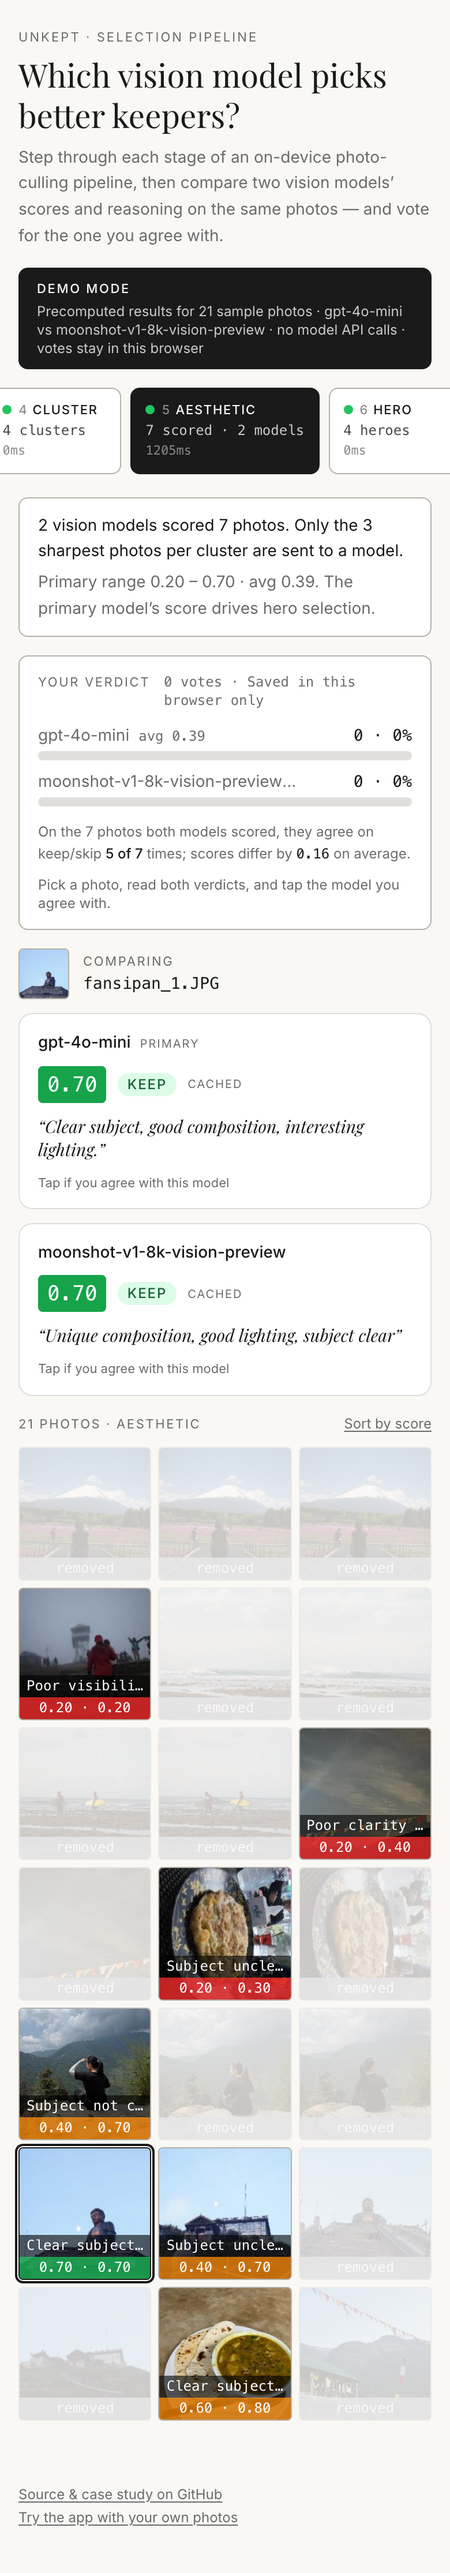
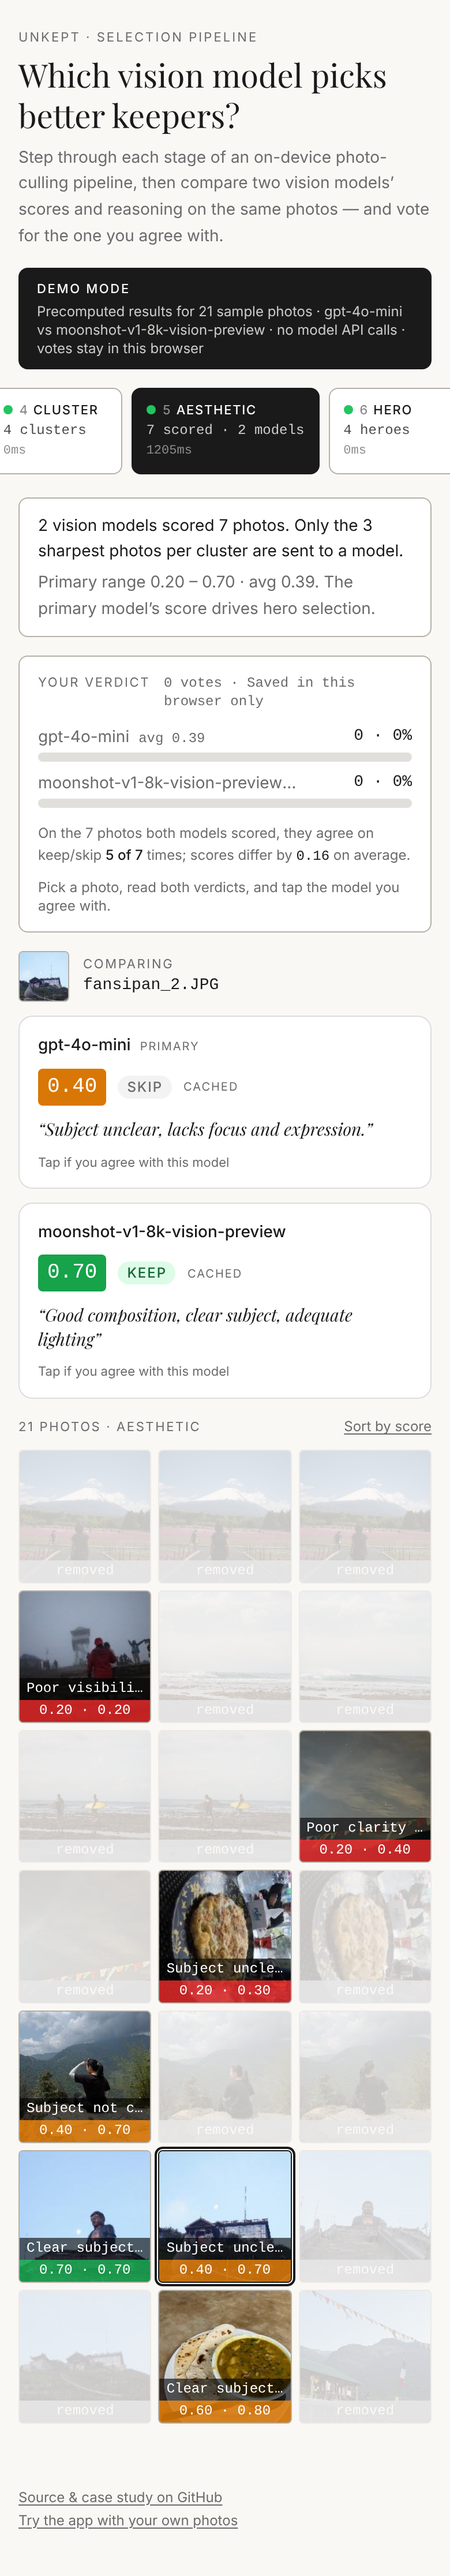
Demo opens on the most contested photo; README shows real results
- Auto-select the photo the two models disagree on most (keep/skip split,
  then score gap) instead of the first scored one, so the first comparison
  a visitor sees shows a contrast. pickMostContested() + tests.
- Re-capture screenshots from the bundled fixture (14 cached scores).
- README: show the comparison screenshots and replace placeholder quotes
  with the real head-to-head on the sample set (5/7 keep/skip agreement,
  0.16 mean gap, Kimi more lenient), flagged as an anecdote, not a benchmark.

Claude-Session: https://claude.ai/code/session_01BfKK63LCmuDTdUXocZ38jE

diff --git a/client/src/dev/PipelineDebugRoute.jsx b/client/src/dev/PipelineDebugRoute.jsx
@@ -2,7 +2,7 @@ import { useCallback, useEffect, useRef, useState } from 'react';
 import { PHASES } from '../lib/pipeline/orchestrator.js';
 import { usePipelineDebug, STAGE_ORDER, STAGE_LABELS } from './usePipelineDebug.js';
 import { usePipelineDemo } from './usePipelineDemo.js';
-import { stageViewState, modelErrorCopy, compareModels } from './pipelineStates.js';
+import { stageViewState, modelErrorCopy, compareModels, pickMostContested } from './pipelineStates.js';
 import { loadVotes, saveVotes, storageKey, toggleVote, tally } from './voteStore.js';
 import { DEMO_MODE, DEMO_FIXTURE_URL } from '../lib/demoMode.js';
 import { buildDemoFixture, buildDisplayImages } from './demoFixture.js';
@@ -236,15 +236,14 @@ function InspectorView({
   const autoSelected = useRef(false);
   const running = phase === PHASES.RUNNING;
 
-  // Demo: pre-select the first photo both models scored so the side-by-side
-  // comparison is visible without a click.
+  // Demo: pre-select the photo the models disagree on most, so the first
+  // comparison a visitor sees actually shows a contrast.
   const aesthetic = snapshots.aestheticScore;
   useEffect(() => {
     if (!isDemo || autoSelected.current || !aesthetic) return;
     autoSelected.current = true;
-    const first = Object.entries(aesthetic.perPhoto ?? {})
-      .find(([, p]) => (p.models ?? []).some((m) => m?.score != null));
-    if (first) setSelectedPhotoId(first[0]);
+    const id = pickMostContested(aesthetic.perPhoto);
+    if (id) setSelectedPhotoId(id);
   }, [isDemo, aesthetic]);
 
   const handleStageSelect = (stage) => {

diff --git a/client/src/dev/pipelineStates.test.js b/client/src/dev/pipelineStates.test.js
@@ -114,3 +114,26 @@ describe('compareModels', () => {
     expect(compareModels(undefined)).toEqual({ models: [], paired: 0, agree: 0, meanGap: null });
   });
 });
+
+import { pickMostContested } from './pipelineStates.js';
+
+describe('pickMostContested', () => {
+  const m = (score, keep) => ({ model: 'x', score, keep });
+  it('prefers a keep/skip disagreement over a bigger same-verdict gap', () => {
+    expect(pickMostContested({
+      agree: { models: [m(0.9, true), m(0.5, true)] },
+      split: { models: [m(0.4, false), m(0.7, true)] },
+    })).toBe('split');
+  });
+  it('breaks ties by score gap', () => {
+    expect(pickMostContested({
+      small: { models: [m(0.4, false), m(0.6, true)] },
+      big: { models: [m(0.2, false), m(0.8, true)] },
+    })).toBe('big');
+  });
+  it('falls back to any scored photo, and null when none', () => {
+    expect(pickMostContested({ a: { models: null }, b: { models: [m(0.5, true)] } })).toBe('b');
+    expect(pickMostContested({ a: { models: null } })).toBeNull();
+    expect(pickMostContested(undefined)).toBeNull();
+  });
+});

diff --git a/client/src/dev/pipelineStates.js b/client/src/dev/pipelineStates.js
@@ -222,3 +222,24 @@ export function compareModels(snap) {
     meanGap: paired ? gapSum / paired : null,
   };
 }
+
+/**
+ * The photo whose first two model results differ most: a keep/skip
+ * disagreement outranks any score gap, then the larger gap wins. Falls back
+ * to the first photo with any score. Returns null when nothing was scored.
+ */
+export function pickMostContested(perPhoto) {
+  let best = null;
+  let bestRank = -1;
+  for (const [id, p] of Object.entries(perPhoto ?? {})) {
+    const scored = (p.models ?? []).filter((m) => m?.score != null);
+    if (scored.length === 0) continue;
+    let rank = 0;
+    if (scored.length >= 2) {
+      const [a, b] = scored;
+      rank = Math.abs(a.score - b.score) + (a.keep != null && b.keep != null && a.keep !== b.keep ? 1 : 0);
+    }
+    if (rank > bestRank) { best = id; bestRank = rank; }
+  }
+  return best;
+}

diff --git a/README.md b/README.md
@@ -6,19 +6,19 @@
 
 Unkept culls a messy camera roll into a short set of keepers. Most of that work runs on-device with classical computer vision: EXIF, perceptual dedup, clustering and sharpness. The one step that needs taste is deciding which near-identical shot is the keeper, so that step goes to a vision LLM. **The open question was which model: a cheap one or a good one?**
 
-<!-- Comparison view. Regenerate after bundling cached scores:
-     export the fixture (docs/ai-aesthetic-proxy.md → "Demo mode and the fixture"), then
-     cd client && npm run build:demo && npm run demo:screenshots -->
-<!-- ![Two models scoring the same photo side by side](docs/screenshots/comparison.png) -->
-<img src="docs/screenshots/dedup.png" width="640" alt="The /pipeline demo: nine stages, with the dedup stage open showing a burst match" /> <img src="docs/screenshots/pipeline-mobile.png" width="150" alt="The same view on a phone" />
+<!-- Screenshots: export the fixture (docs/ai-aesthetic-proxy.md → "Demo mode and the fixture"),
+     then cd client && npm run build:demo && npm run demo:screenshots -->
+<img src="docs/screenshots/comparison.png" width="640" alt="GPT-4o-mini and Kimi scoring the same photo side by side: 0.40 skip vs 0.70 keep" /> <img src="docs/screenshots/comparison-mobile.png" width="150" alt="The comparison view on a phone" />
 
 ## What the demo shows
 
-`/pipeline` walks through every stage on 21 sample photos: EXIF → dedup → CLIP embedding → clustering → aesthetic scoring → hero → chapters → thumbnail → quality. On the aesthetic stage, **two models score the same photo side by side**, each with a score, a keep/skip call and a one-line reason. You vote for the one you agree with, and a tally adds up your verdict next to the models' own agreement rate and average score gap.
+`/pipeline` walks through every stage on 21 sample photos: EXIF → dedup → CLIP embedding (off in the demo build) → clustering → aesthetic scoring → hero → chapters → thumbnail → quality. On the aesthetic stage, **two models score the same photo side by side**, each with a score, a keep/skip call and a one-line reason. You vote for the one you agree with, and a tally adds up your verdict next to the models' own agreement rate and average score gap.
+
+**On the sample set, GPT-4o-mini vs Kimi** (`moonshot-v1-8k-vision-preview`), same prompt: they agree on keep/skip for **5 of 7** photos, and scores differ by **0.16** on average. Kimi is consistently more lenient: it averages **0.54** to GPT-4o-mini's **0.39** and keeps 4 photos to GPT-4o-mini's 2. Both disagreements are Kimi keeping a photo GPT-4o-mini skips. On `fansipan_2.JPG`, GPT-4o-mini scores 0.40 and skips it ("Subject unclear, lacks focus and expression."), while Kimi scores 0.70 and keeps it ("Good composition, clear subject, adequate lighting"). Seven photos is an anecdote, not a benchmark, which is why the demo asks for your vote.
 
 ## Key decisions
 
-- **Two models at a time, not a leaderboard.** A head-to-head on the same photo makes the difference concrete ("eyes closed" vs "nice light"), and a human vote settles it. The primary model drives hero selection; the second exists only for comparison. Swapping either one is a change of environment variables, because both go through one OpenAI-compatible proxy.
+- **Two models at a time, not a leaderboard.** A head-to-head on the same photo makes the difference concrete ("subject unclear" vs "clear subject" on the same shot), and a human vote settles it. The primary model drives hero selection; the second exists only for comparison. Swapping either one is a change of environment variables, because both go through one OpenAI-compatible proxy.
 - **A cheap filter in front of the expensive model.** A Laplacian sharpness check picks the top 3 photos per cluster; only those reach the LLM. This keeps cost bounded however large the photo roll is.
 - **Caching after hitting Kimi's concurrency limit.** Scores are cached by `sha256(model + prompt + image)`, so a re-run never re-bills a photo, and changing the prompt or model invalidates the cache automatically. Only successful scores are cached.
 - **Batching and a concurrency cap after PR review.** The client sends batches of 4, and the proxy allows at most `LLM_CONCURRENCY` calls in flight per provider. A 429 now shows up as a specific, actionable message on the affected card instead of a silent `null`.
